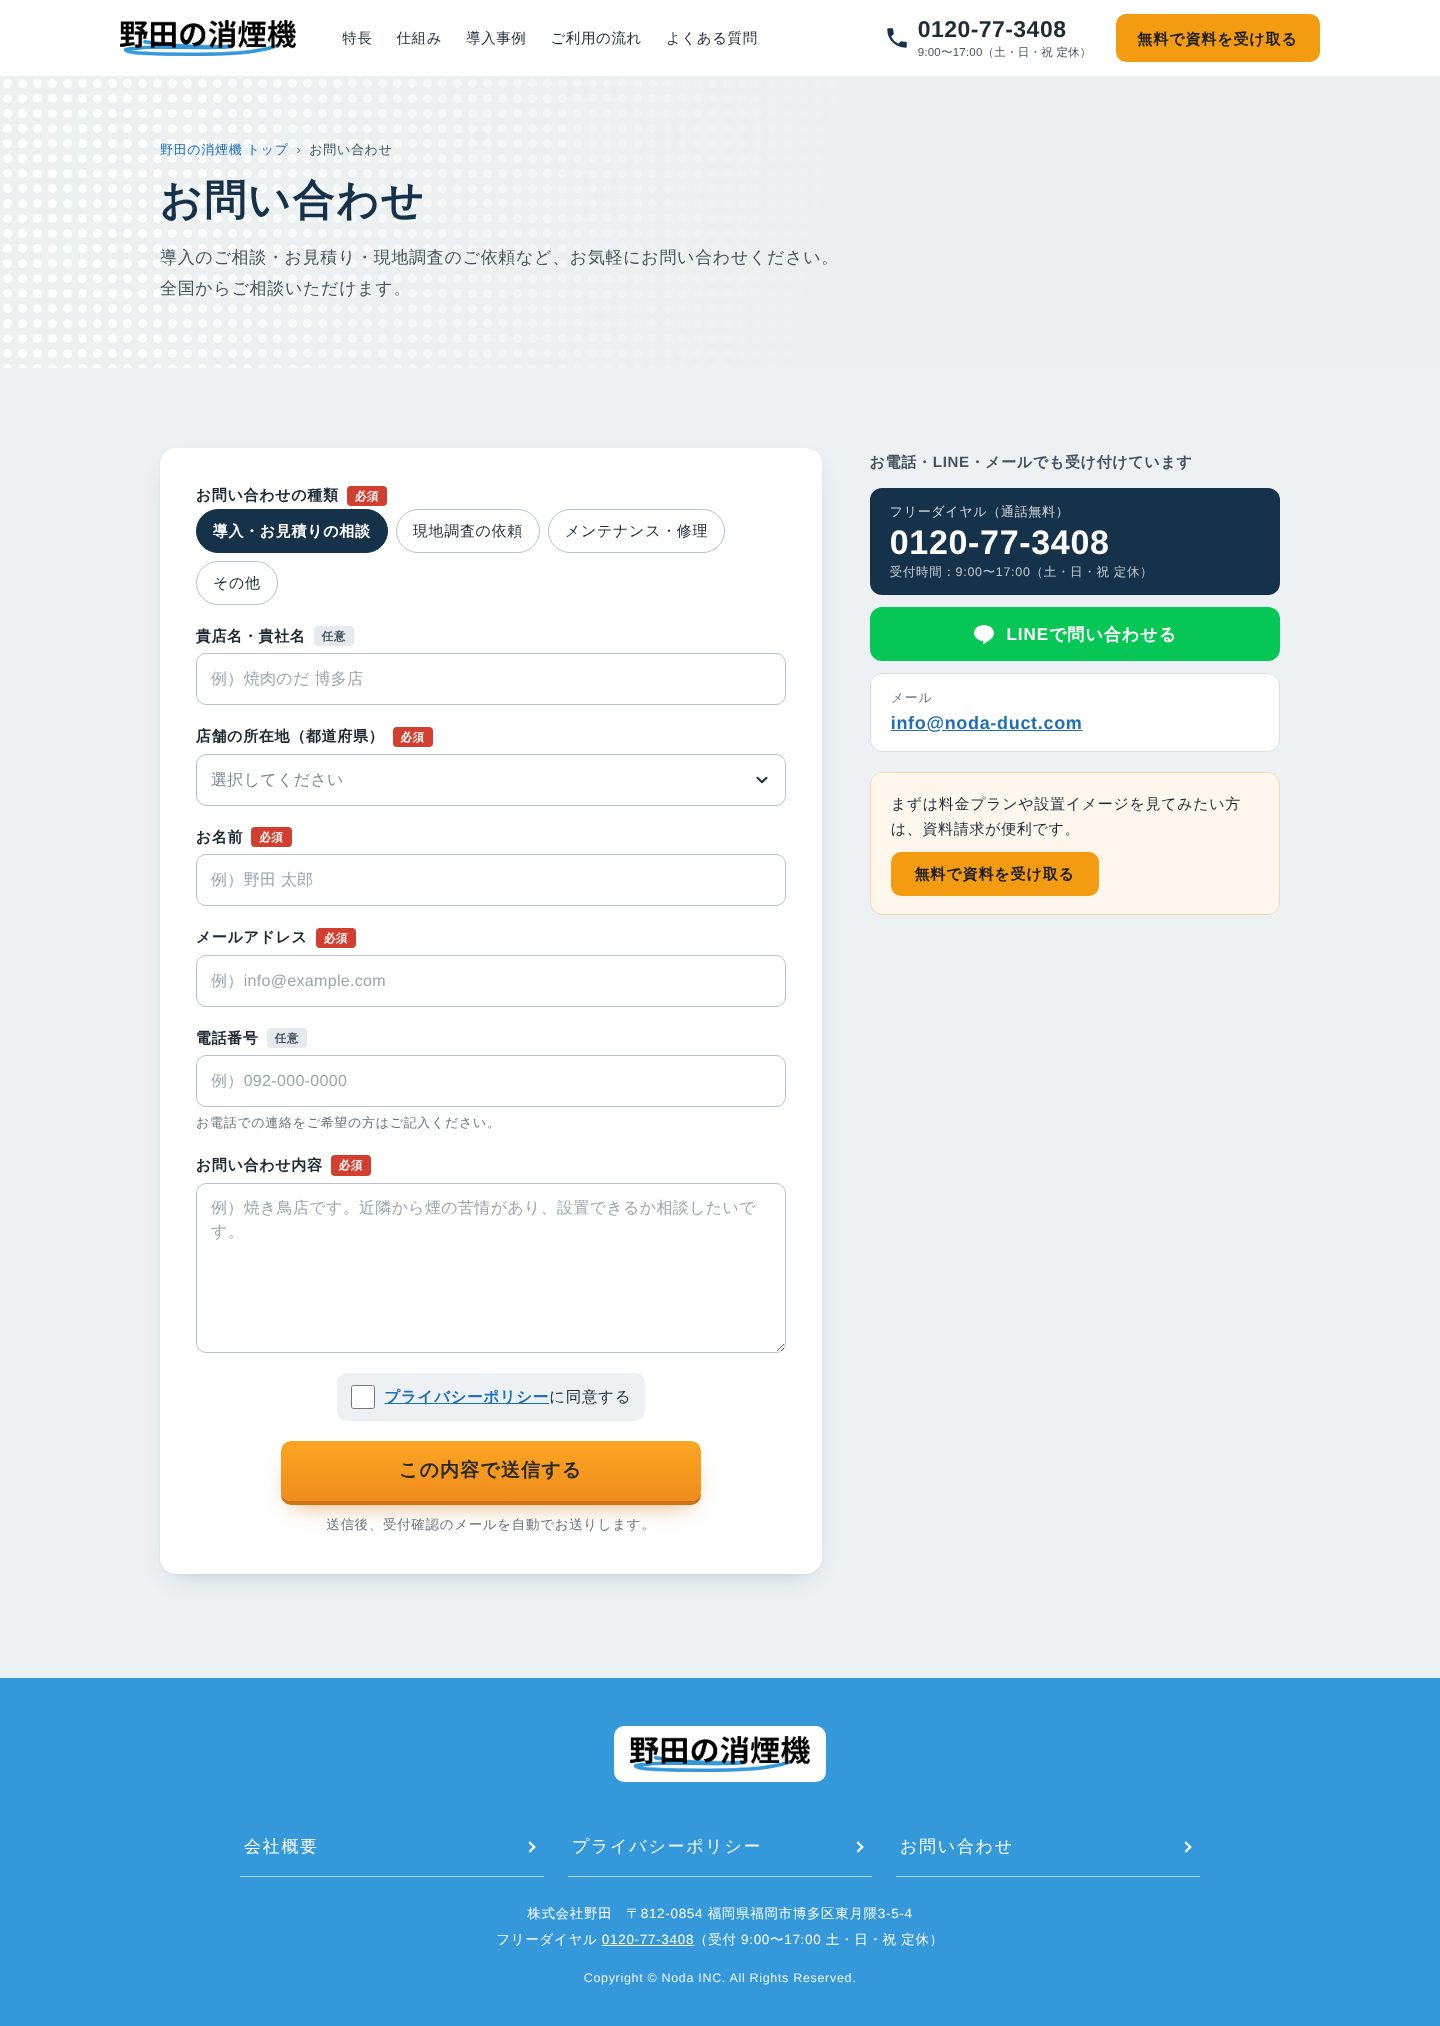
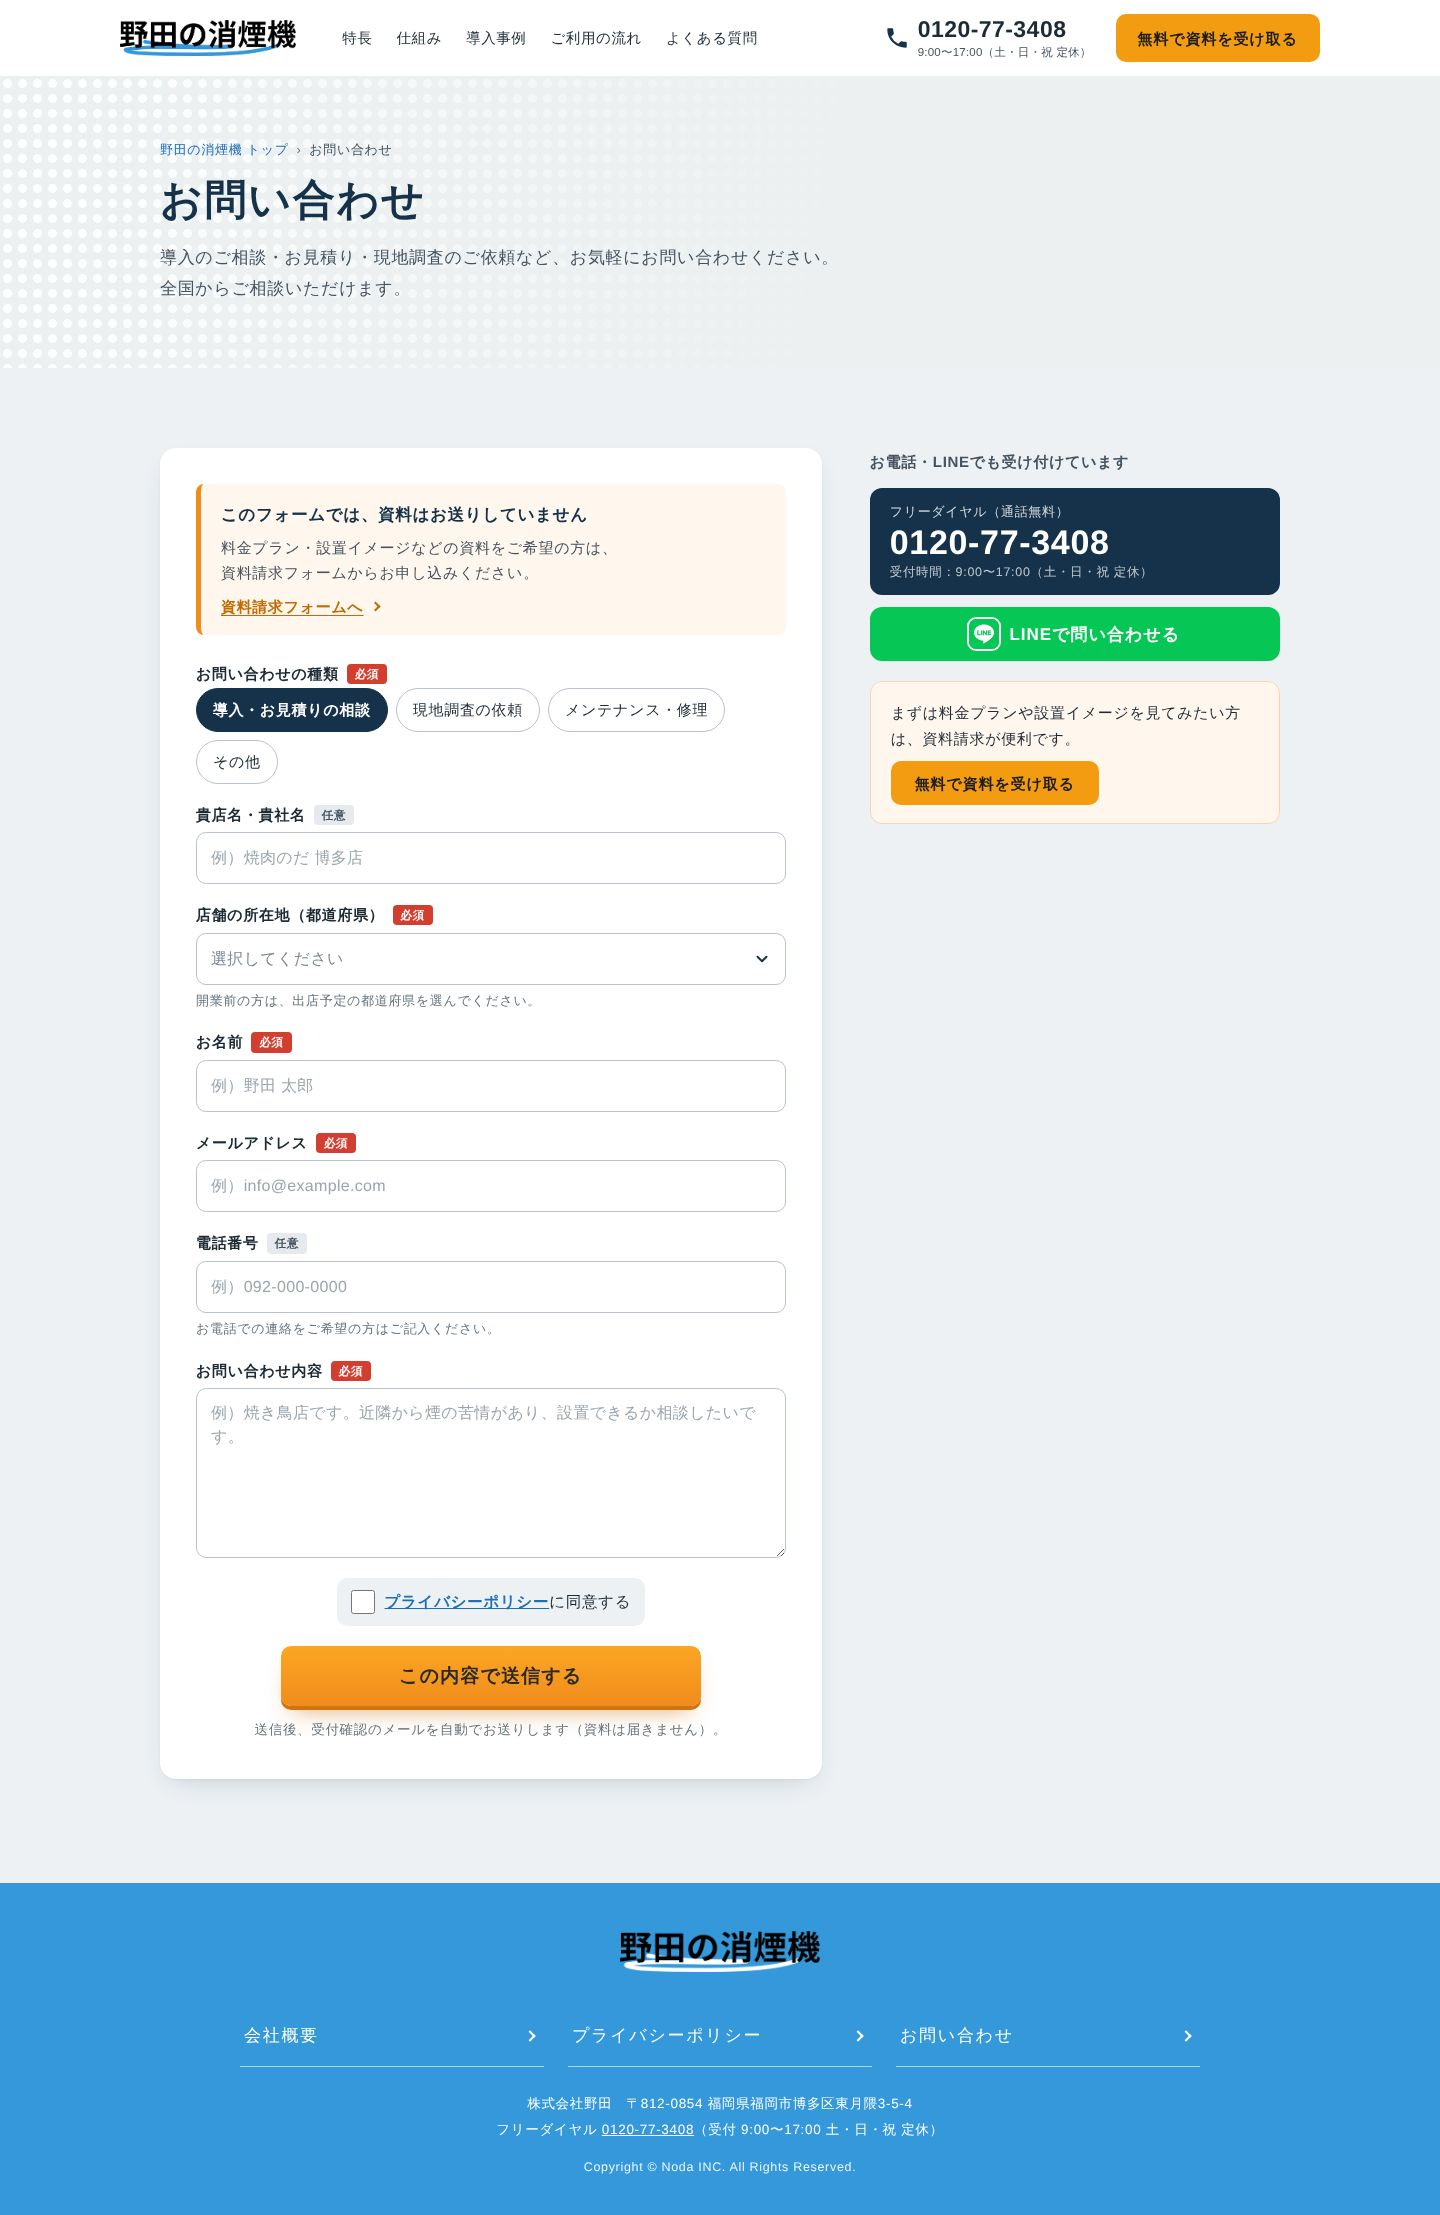
お問い合わせでは資料が届かないことを明記し、メールアドレスの表記を外す
- お問い合わせフォームの先頭に「このフォームでは資料はお送りしていません」と
  資料請求フォームへのリンクを入れた。送信ボタンの下と送信後の表示にも書き添えた
- お問い合わせの自動返信メールにも、資料は資料請求フォームから申し込むよう一文を足した
- お問い合わせページのメールアドレスの欄を削除した

Claude-Session: https://claude.ai/code/session_019JDn7AZMLfVuv5c9s7Xp3K

diff --git a/contact/index.html b/contact/index.html
@@ -84,6 +84,11 @@ j=d.createElement(s),dl=l!='dataLayer'?'&l='+l:'';j.async=true;j.src=
 <section class="page sec--light">
   <div class="wrap ct__grid">
     <div class="form-card">
+      <div class="ct__notice" role="note">
+        <p class="ct__notice-ttl"><span class="nb">このフォームでは、</span><span class="nb">資料はお送りしていません</span></p>
+        <p><span class="nb">料金プラン・設置イメージなどの</span><span class="nb">資料をご希望の方は、</span><span class="nb">資料請求フォームから</span><span class="nb">お申し込みください。</span></p>
+        <a class="ct__notice-link" href="../#download">資料請求フォームへ<i class="arw" aria-hidden="true"></i></a>
+      </div>
       <form class="form" data-form="contact" data-endpoint="" novalidate>
         <fieldset class="field chips">
           <legend>お問い合わせの種類<span class="badge">必須</span></legend>
@@ -142,21 +147,21 @@ j=d.createElement(s),dl=l!='dataLayer'?'&l='+l:'';j.async=true;j.src=
         <button class="btn btn--cta btn--submit" type="submit" data-submit>
           <span data-submit-label>この内容で送信する</span>
         </button>
-        <p class="form__note">送信後、受付確認のメールを自動でお送りします。</p>
+        <p class="form__note">送信後、受付確認のメールを自動でお送りします（資料は届きません）。</p>
         <p class="form__msg" data-form-msg role="status" aria-live="polite"></p>
       </form>
       <div class="form-done" data-form-done hidden tabindex="-1">
         <p class="form-done__ttl">お問い合わせありがとうございます</p>
         <p>内容を確認のうえ、担当者よりご連絡いたします。受付確認のメールもお送りしました。</p>
+        <p>資料をご希望の場合は、<a href="../#download">資料請求フォーム</a>からお申し込みください。</p>
         <p>お急ぎの場合は、お電話（<a href="tel:0120773408">0120-77-3408</a>）でもご相談いただけます。</p>
       </div>
     </div>
 
     <aside class="ct__side" aria-label="フォーム以外のお問い合わせ方法">
-      <p class="ct__side-ttl">お電話・LINE・メールでも受け付けています</p>
+      <p class="ct__side-ttl">お電話・LINEでも受け付けています</p>
       <a class="telbox" href="tel:0120773408"><small>フリーダイヤル（通話無料）</small><b class="num">0120-77-3408</b><span>受付時間：9:00〜17:00（土・日・祝 定休）</span></a>
       <a class="linebtn" href="https://line.me/R/ti/p/@254bbzux" target="_blank" rel="noopener"><img class="ic ic--line" src="../assets/img/line-icon.webp" width="24" height="24" alt="">LINEで問い合わせる</a>
-      <p class="mailbox"><small>メール</small><a href="mailto:info@noda-duct.com">info@noda-duct.com</a></p>
       <div class="dlcard">
         <p>まずは料金プランや設置イメージを見てみたい方は、<span class="nb">資料請求が便利です。</span></p>
         <a class="btn btn--orange" href="../#download">無料で資料を受け取る</a>

diff --git a/assets/css/site.css b/assets/css/site.css
@@ -492,9 +492,10 @@ main { padding-top: calc(var(--hd-h) + env(safe-area-inset-top, 0px)); }
 @media (min-width: 980px) { .ct__grid { grid-template-columns: minmax(0, 1fr) minmax(0, .62fr); gap: 48px; align-items: start; } .ct__side { position: sticky; top: calc(var(--hd-h) + 24px); } }
 .ct__side { display: grid; gap: 12px; }
 .ct__side-ttl { font-size: 15px; font-weight: 700; color: var(--ink-2); }
-.mailbox { display: grid; gap: 2px; padding: 14px 20px; border-radius: var(--radius); background: #fff; border: 1px solid var(--line); line-height: 1.5; }
-.mailbox small { font-size: 13px; color: var(--ink-3); }
-.mailbox a { font-size: 18px; font-weight: 700; color: var(--blue-ink); word-break: break-all; }
+.ct__notice { display: grid; gap: 6px; margin-bottom: 28px; padding: 16px 18px 16px 20px; border-left: 5px solid var(--orange-2); border-radius: 8px; background: var(--cream); font-size: 15px; line-height: 1.7; color: var(--ink-2); }
+.ct__notice-ttl { font-size: 16.5px; font-weight: 700; color: var(--navy); }
+.ct__notice-link { display: inline-flex; align-items: center; gap: 8px; justify-self: start; margin-top: 2px; color: var(--orange-ink); font-weight: 700; text-decoration: underline; text-underline-offset: 3px; }
+.ct__notice-link .arw { width: 7px; height: 7px; border-width: 2px; }
 .dlcard { display: grid; gap: 10px; margin-top: 8px; padding: 18px 20px; border-radius: var(--radius); background: var(--cream); border: 1px solid #f6d7ad; }
 .dlcard p { font-size: 15px; line-height: 1.7; }
 .dlcard .btn { justify-self: start; min-height: 44px; font-size: 15px; }

diff --git a/README.md b/README.md
@@ -74,7 +74,7 @@ npx serve .
 |---|---|
 | `company/` | 会社情報（会社名、本社、広島出張所、電話・FAX・フリーダイヤル、メール、事業内容、対応エリア、ウェブサイト） |
 | `privacypolicy/` | 個人情報の取り扱い（このサイトのフォームと計測タグに合わせた内容） |
-| `contact/` | お問い合わせフォーム（種類・店名・都道府県・お名前・メール・電話・内容）と、電話・LINE・メールの案内 |
+| `contact/` | お問い合わせフォーム（種類・店名・都道府県・お名前・メール・電話・内容）と、電話・LINEの案内。フォームの先頭と送信後の表示、受付確認メールで「このフォームでは資料は届かない。資料は資料請求フォームから」と案内 |
 
 - 会社情報は取扱説明書と現行LPに載っている内容だけで作っています。代表者名・設立・資本金・許可番号などは、会社サイトの会社概要に合わせて追加します。
 - プライバシーポリシーは、会社サイトの現在の文面を確認できなかったため、新しく書いた案です。会社サイトの文面に合わせるか、この案を確認してください。2022年の法改正で公表が必要になった代表者名も、あわせて載せる必要があります。
